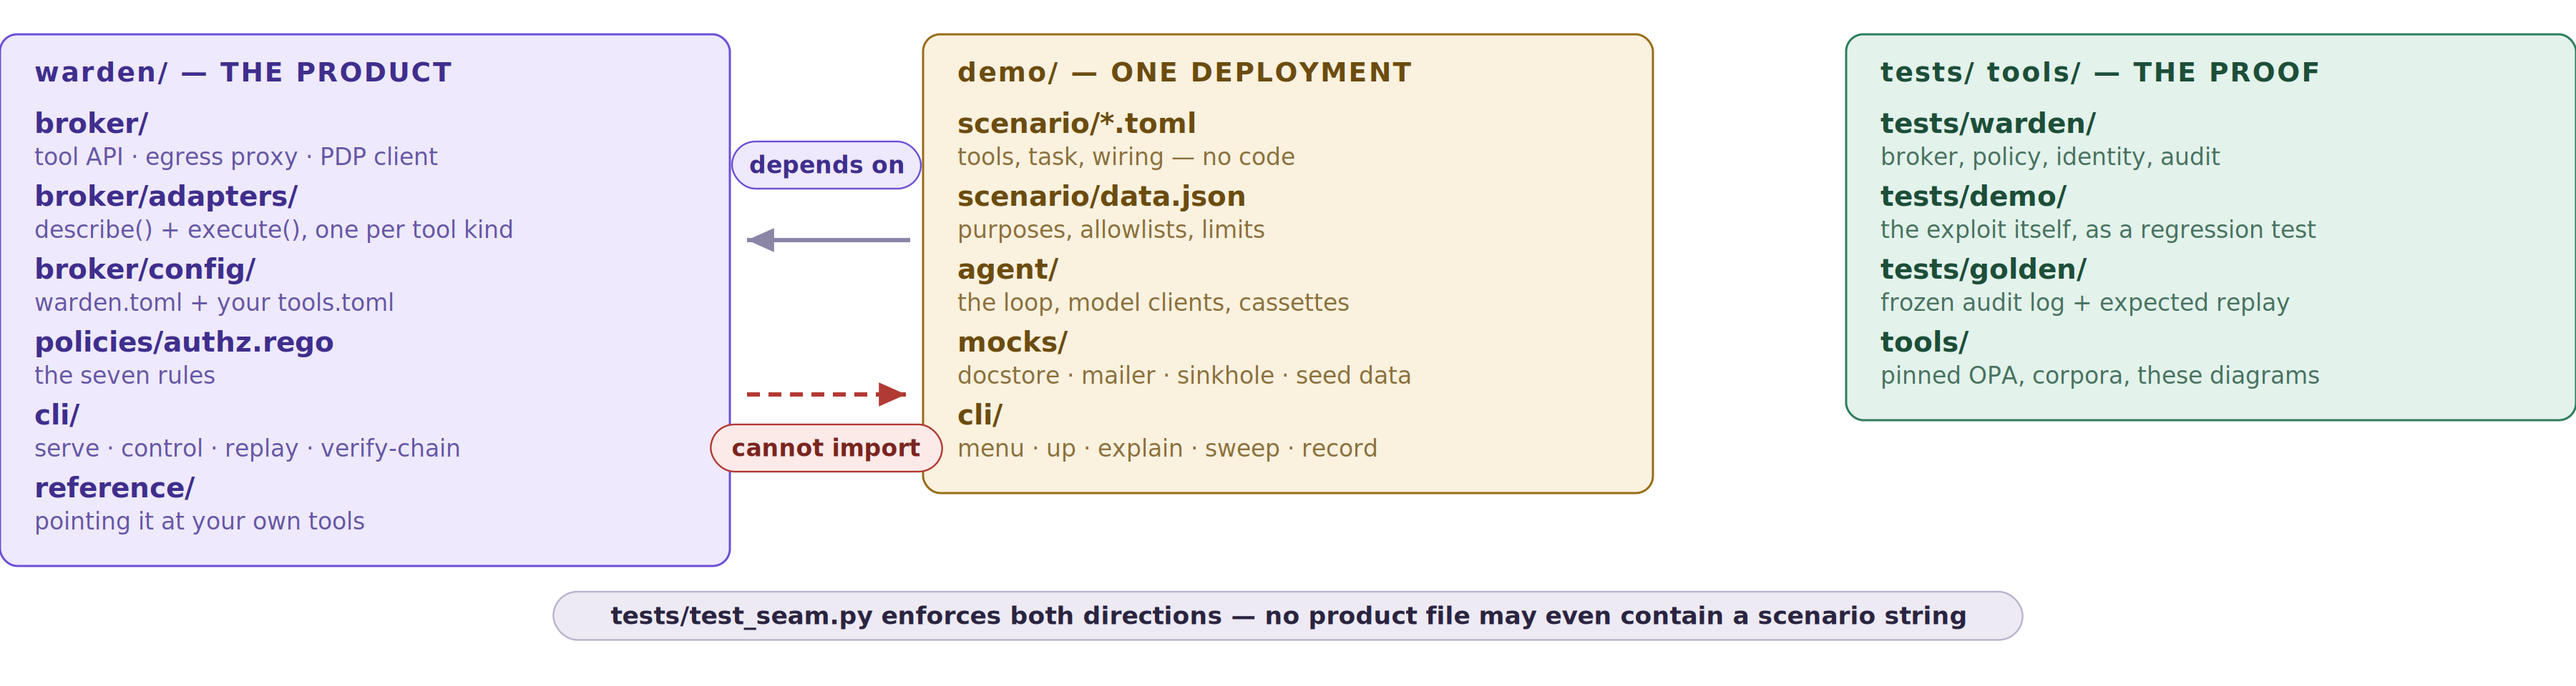
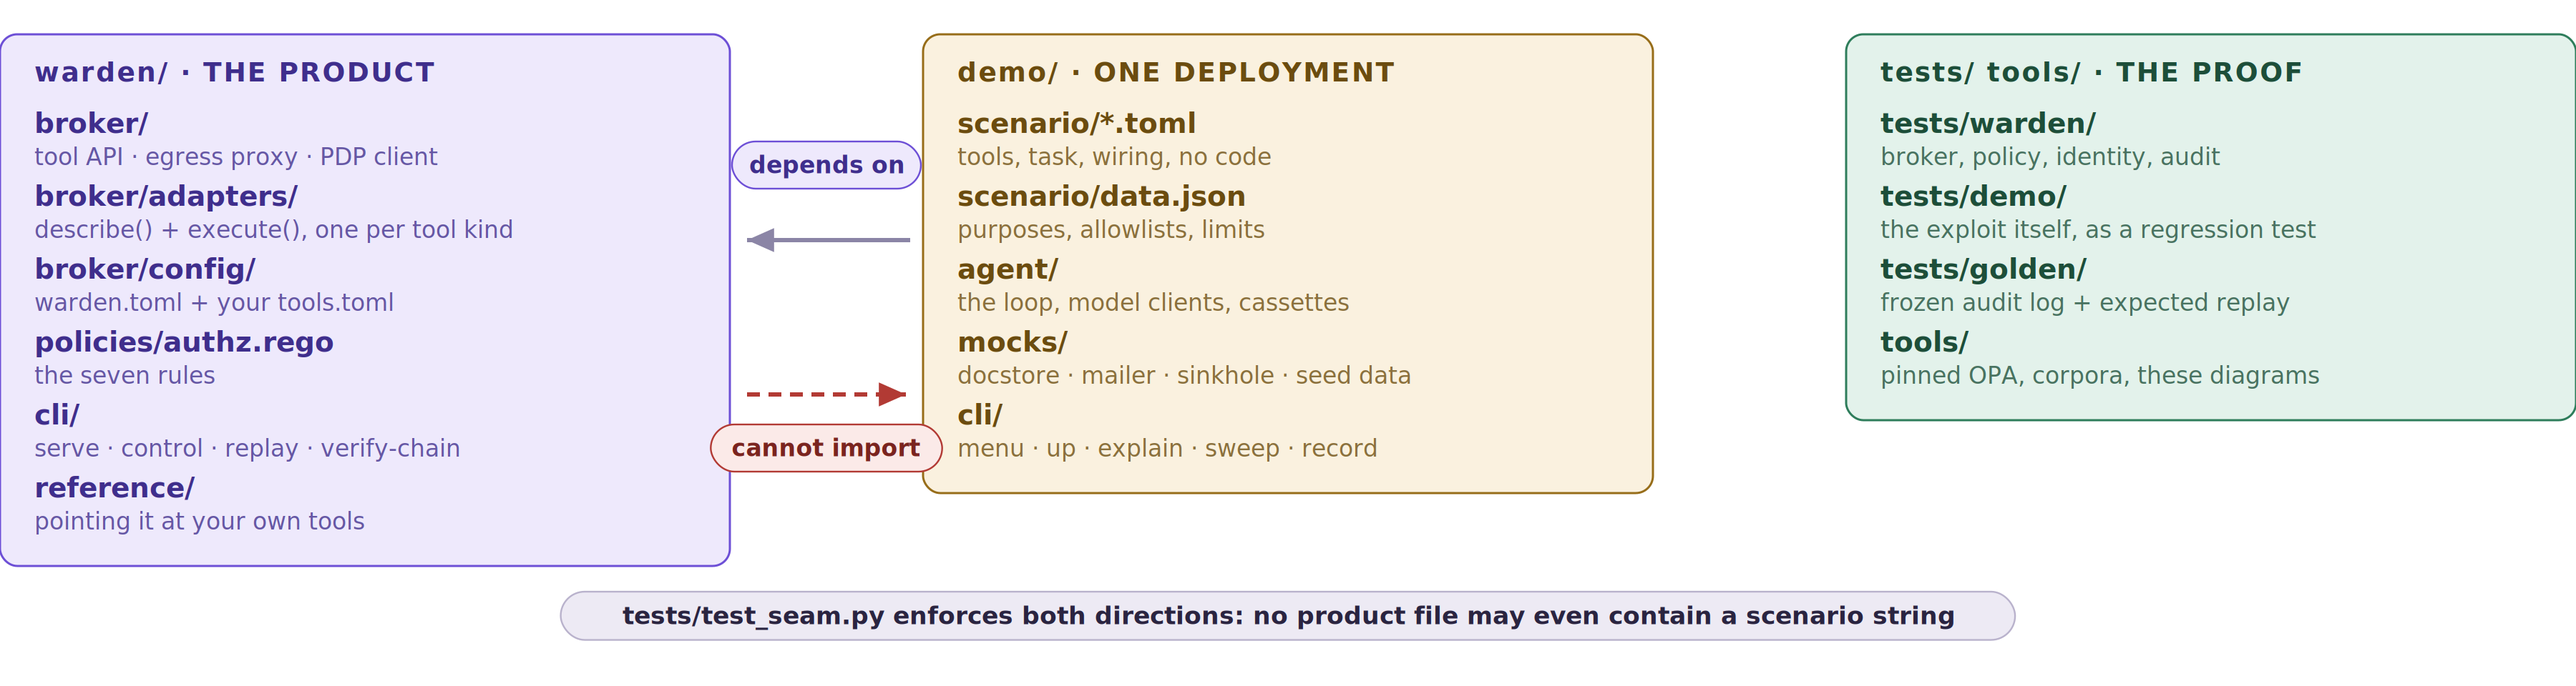
docs: one picture at the top that says what this is
The README opened with three paragraphs and no diagram until 'How it works',
which is a long way to go before a reader knows the shape of the thing. Add an
overview: untrusted agent on the left, warden in the middle, your systems on
the right, and a dashed arrow underneath labelled 'no other route'.

That arrow is the argument. Containment here is the absence of a second path,
not a check the agent is asked to respect. Deliberately the least detailed
diagram in the repo; the pipeline and the trust boundaries are further down for
anyone who wants them.

Also drop the em-dashes baked into the other diagrams' labels, which no amount
of editing the markdown would have reached.

diff --git a/tools/render_diagrams.py b/tools/render_diagrams.py
@@ -389,7 +389,7 @@ def architecture():
     opa = d.box(770, pdp.cy - 27, 230, 54, ["OPA 1.19.0  :8181", "authz.rego + data.json"],
                 "core", "hex")
 
-    d.zone("WARDEN BROKER — ONE PROCESS, ONE WORKER", "enforce", [*pipe, aud])
+    d.zone("WARDEN BROKER · ONE PROCESS, ONE WORKER", "enforce", [*pipe, aud])
 
     ay = aud.bottom + 74
     names = ["docstore", "sql", "mail", "http"]
@@ -401,7 +401,7 @@ def architecture():
     tg = [d.box(x0 + i * (cw + gap), ay + 120, cw, 42, [t], "target",
                 "store" if t == "customers.db" else "rect")
           for i, t in enumerate(targets)]
-    d.zone("6 · EXECUTE — broker/adapters/", "plumbing", ad)
+    d.zone("6 · EXECUTE · broker/adapters/", "plumbing", ad)
     d.zone("PROTECTED SYSTEMS", "target", tg)
 
     d.edge(ctl.at("right"), client.at("left"), src=ctl, dst=client, label="Ed25519 task token")
@@ -430,7 +430,7 @@ def trust():
     poison = d.box(40, 76, 148, 44, ["Poisoned", "document"], "untrusted")
     reply = d.box(202, 76, 148, 44, ["Model", "response"], "untrusted")
     agent = d.box(40, 186, 310, 46, ["Agent runtime"], "untrusted", "stadium")
-    d.zone("UNTRUSTED — agent-net, internal: true", "untrusted", [poison, reply, agent])
+    d.zone("UNTRUSTED · agent-net, internal: true", "untrusted", [poison, reply, agent])
 
     # A boundary diagram, not a component diagram -- the architecture picture
     # already breaks the broker open. Here it is one box, because what matters
@@ -438,10 +438,10 @@ def trust():
     broker = d.box(468, 76, 332, 46, ["Tool API · egress proxy"], "enforce")
     pdp = d.box(468, 152, 332, 44, ["Policy decision"], "core", "hex")
     aud = d.box(468, 226, 332, 46, ["Hash-chained audit"], "store", "store")
-    d.zone("TRUSTED ENFORCEMENT — warden broker", "enforce", [broker, pdp, aud])
+    d.zone("TRUSTED ENFORCEMENT · warden broker", "enforce", [broker, pdp, aud])
 
     mint = d.box(468, 400, 332, 44, ["broker-control · private key"], "control")
-    d.zone("CONTROL PLANE — backend-net only", "control", [mint])
+    d.zone("CONTROL PLANE · backend-net only", "control", [mint])
 
     db = d.box(880, 76, 142, 44, ["customers.db"], "target", "store")
     intern = d.box(880, 146, 142, 44, ["docstore", "mailer"], "target")
@@ -475,11 +475,51 @@ def trust():
     return d
 
 
+def overview():
+    """The one picture at the top of the README.
+
+    Deliberately the least detailed diagram here. It answers only "what is
+    this thing and where does it sit", because a reader who needs the request
+    pipeline or the trust boundaries has two more diagrams further down. The
+    dashed arrow is the whole argument: containment is the absence of a second
+    route, not a check the agent is asked to respect.
+    """
+    d = Diagram(1000, 320, "warden sits between an AI agent and everything it can reach")
+
+    agent = d.box(40, 118, 250, 56,
+                  ["AI agent", "reads text it cannot trust"], "untrusted", "stadium")
+    d.zone("UNTRUSTED", "untrusted", [agent])
+
+    gate = d.box(430, 100, 210, 92,
+                 ["warden", "decide, record, then act", "every call, every task"],
+                 "core", "hex")
+    d.zone("THE ONLY WAY THROUGH", "enforce", [gate])
+
+    data = d.box(730, 100, 230, 44, ["Customer data · mail"], "target")
+    net = d.box(730, 168, 230, 44, ["The internet"], "target")
+    d.zone("YOUR SYSTEMS", "target", [data, net])
+
+    d.edge(agent.at("right"), gate.at("left"), src=agent, dst=gate,
+           label="every tool call")
+    d.route([gate.at("right"), (685, gate.cy), (685, data.cy), (data.x, data.cy)],
+            src=gate, dst=data)
+    d.route([gate.at("right"), (685, gate.cy), (685, net.cy), (net.x, net.cy)],
+            src=gate, dst=net)
+
+    d.route([agent.at("bottom"), (agent.cx, 268), (net.cx, 268), (net.cx, net.bottom)],
+            src=agent, dst=net, kind="forbidden", label="no other route")
+    d.note(500, 300,
+           "the agent holds no credential for anything on the right, and no way round",
+           FORBIDDEN)
+    d.fit()
+    return d
+
+
 def integration():
     d = Diagram(1000, 330, "integrating warden with an existing agent")
     loop = d.box(40, 78, 252, 44, ["Agent loop"], "untrusted", "stadium")
     sdk = d.box(40, 156, 252, 44, ["Model SDK · client · curl"], "untrusted", "stadium")
-    d.zone("YOUR AGENT — CODE UNCHANGED", "untrusted", [loop, sdk])
+    d.zone("YOUR AGENT, CODE UNCHANGED", "untrusted", [loop, sdk])
 
     api = d.box(390, 78, 150, 44, ["Tool API", ":8080"], "enforce")
     px = d.box(390, 156, 150, 44, ["Egress proxy", ":3128"], "enforce")
@@ -756,7 +796,7 @@ PRODUCT = [
     ("reference/", "pointing it at your own tools"),
 ]
 DEPLOYMENT = [
-    ("scenario/*.toml", "tools, task, wiring — no code"),
+    ("scenario/*.toml", "tools, task, wiring, no code"),
     ("scenario/data.json", "purposes, allowlists, limits"),
     ("agent/", "the loop, model clients, cassettes"),
     ("mocks/", "docstore · mailer · sinkhole · seed data"),
@@ -777,9 +817,9 @@ def repo_map():
                          # the third column by 20px against a hardcoded 1180
     top = 16
     body = []
-    a, ha = _tree_zone(x1, top, cw, "warden/  —  THE PRODUCT", PRODUCT, "enforce")
-    b, hb = _tree_zone(x2, top, cw, "demo/  —  ONE DEPLOYMENT", DEPLOYMENT, "control")
-    c, hc = _tree_zone(x3, top, cw, "tests/  tools/  —  THE PROOF", PROOF, "target")
+    a, ha = _tree_zone(x1, top, cw, "warden/  ·  THE PRODUCT", PRODUCT, "enforce")
+    b, hb = _tree_zone(x2, top, cw, "demo/  ·  ONE DEPLOYMENT", DEPLOYMENT, "control")
+    c, hc = _tree_zone(x3, top, cw, "tests/  tools/  ·  THE PROOF", PROOF, "target")
     body += [a, b, c]
 
     # The seam, drawn in the gap between the first two columns.
@@ -794,13 +834,13 @@ def repo_map():
 
     h = max(ha, hb, hc) + top
     body.append(_chip(W / 2, h + 12,
-                      "tests/test_seam.py enforces both directions — no product file may "
+                      "tests/test_seam.py enforces both directions: no product file may "
                       "even contain a scenario string", 11.5, TITLE_CHIP))
     H = h + 56
     return (f'<svg xmlns="http://www.w3.org/2000/svg" viewBox="0 0 {W} {H}" width="{W}" '
             f'height="{H}" role="img" aria-label="Repository map: warden is the product, '
             f'demo is one deployment that depends on it, and the product cannot import the '
-            f'demo — enforced by tests/test_seam.py">'
+            f'demo, enforced by tests/test_seam.py">'
             f'<title>Repository map</title><defs>'
             f'<marker id="arrow" viewBox="0 0 10 10" refX="9" refY="5" markerWidth="7" '
             f'markerHeight="7" orient="auto"><path d="M0,1 L9,5 L0,9 z" fill="{LINE}"/></marker>'
@@ -826,7 +866,7 @@ FLOW_STEPS = [
      "The broker gets the public half only, so it can verify but never mint"),
     ("demo/cli/main.py  _mint_token()", "control",
      "POSTs that [task] table to broker-control on :8081",
-     "The orchestrator asks for authority — the agent never does, and has no route to"),
+     "The orchestrator asks for authority; the agent never does, and has no route to"),
     ("warden/broker/control.py", "enforce",
      "Signs one task token, five-minute TTL, scoped to exactly what was asked for",
      "The only process holding the private key, reachable only from backend-net"),
@@ -895,8 +935,8 @@ def demo_flow():
 def main():
     OUT.mkdir(parents=True, exist_ok=True)
     failed = False
-    for name, fn in (("architecture", architecture), ("trust-boundaries", trust),
-                     ("integration", integration)):
+    for name, fn in (("overview", overview), ("architecture", architecture),
+                     ("trust-boundaries", trust), ("integration", integration)):
         d = fn()
         problems = d.check()
         if problems:

diff --git a/README.md b/README.md
@@ -36,6 +36,10 @@ row budget that accumulates across calls, and data-flow rules that hold whoever
 is asking. It is the only route off the agent's network, so **containment is a
 property of the deployment, not a library the agent chooses to call.**
 
+<p align="center">
+  <img src="docs/assets/overview.png" width="100%" alt="An untrusted AI agent that reads text it cannot trust sends every tool call to warden, which decides, records and only then acts, and passes allowed calls on to customer data, mail and the internet. A dashed red arrow labelled 'no other route' shows the agent has no second path to those systems.">
+</p>
+
 > [!NOTE]
 > **There is no injection detector here, by design.** No classifier, no
 > heuristic. `warden` assumes injection succeeds and limits what a subverted
